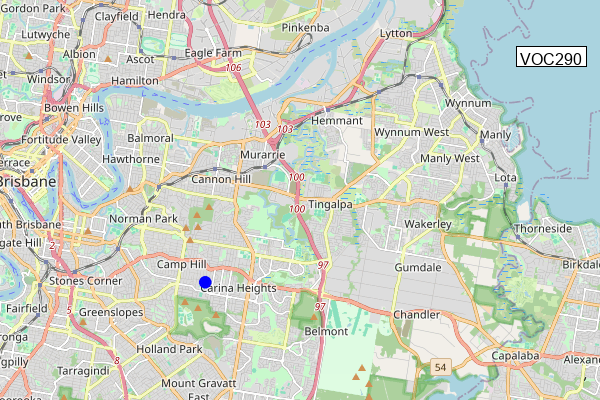
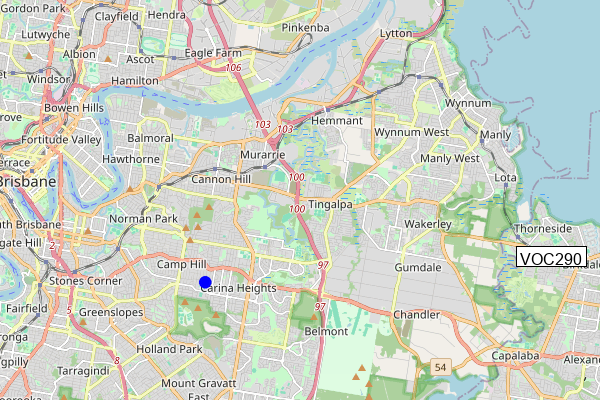
Updates to converter

Changed region(s): [[0.84, 0.6, 0.99, 0.69], [0.84, 0.09, 0.99, 0.18]]

diff --git a/src/Tracker/converter.py b/src/Tracker/converter.py
@@ -6,12 +6,14 @@ lonMin, lonMax = 153, 153.17
 
 def plotCoords(lat, lon):
     # Size of one cell in world coordinates
-    cell_width = (latMax - latMin) / cols   # latitude controls X (columns)
-    cell_height = (lonMax - lonMin) / rows  # longitude controls Y (rows)
+    cell_width = (lonMax - lonMin) / cols    # longitude -> X (columns)
+    cell_height = (latMax - latMin) / rows   # latitude -> Y (rows)
 
-    # Find col/row index
-    col = int((lat - latMin) / cell_width)   # X index from latitude
-    row = int((lon - lonMin) / cell_height)  # Y index from longitude
+    # Column index from longitude
+    col = int((lon - lonMin) / cell_width)
+
+    # Row index from latitude (flip because y increases downward)
+    row = int((latMax - lat) / cell_height)
 
     # Clamp to valid grid
     col = min(max(col, 0), cols - 1)
@@ -22,3 +24,4 @@ def plotCoords(lat, lon):
     px_center_y = (row + 0.5) * (height / rows)
 
     return row, col, px_center_x, px_center_y
+

diff --git a/src/main.py b/src/main.py
@@ -47,8 +47,12 @@ def main():
 
     #testing
     callsigns = "VOC290"
-    lat = -27.44
-    lon = 152.1
+    lat = -27.5
+    lon = 153.5
+
+    #flight details list
+    #flights = [["VOC290", -27.44, 152.1],
+               #["QAZ290", -27.5, ]]
 
     #convert lon/lat to pixelcoords
     row, col, pixX, pixY = plotCoords(lat = lat, lon = lon)
